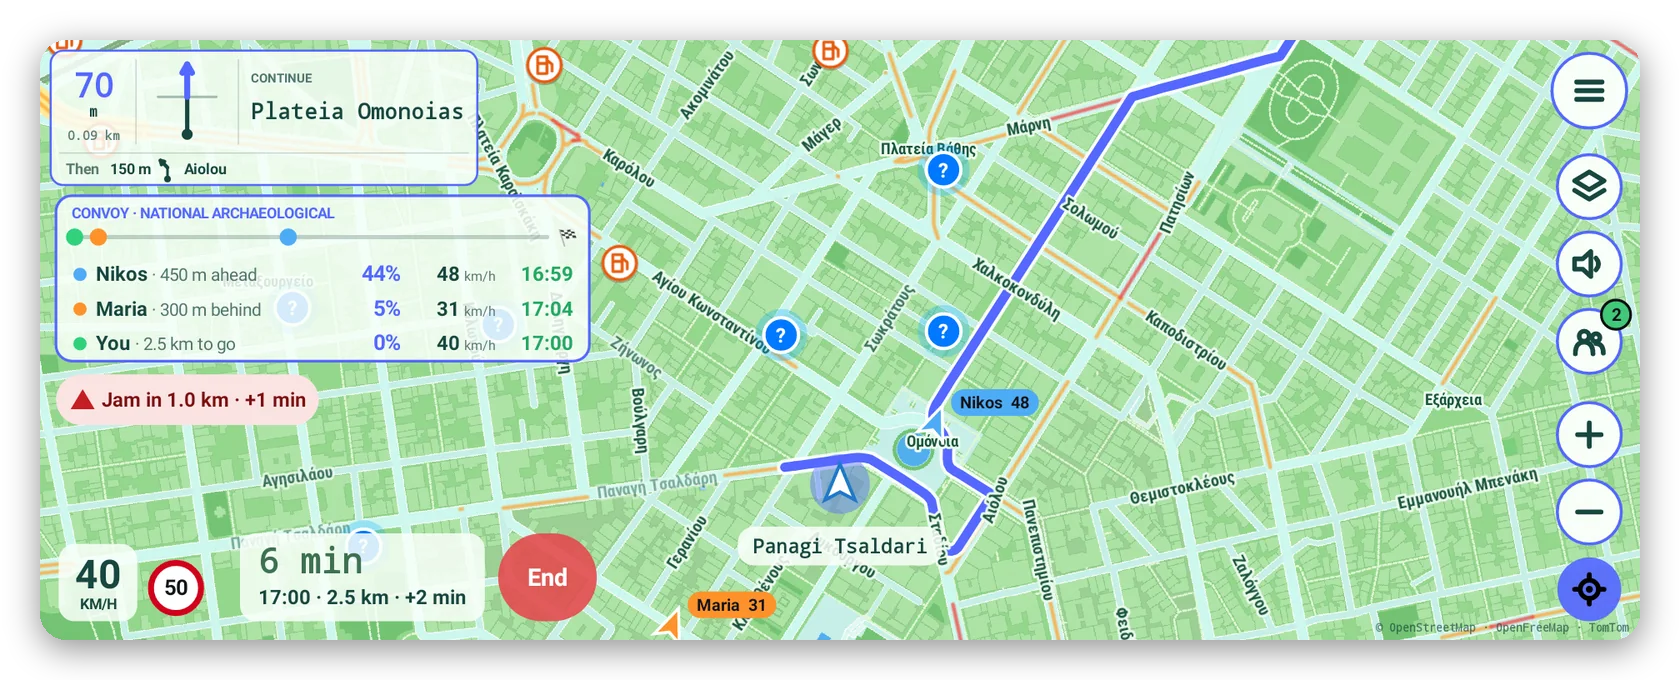
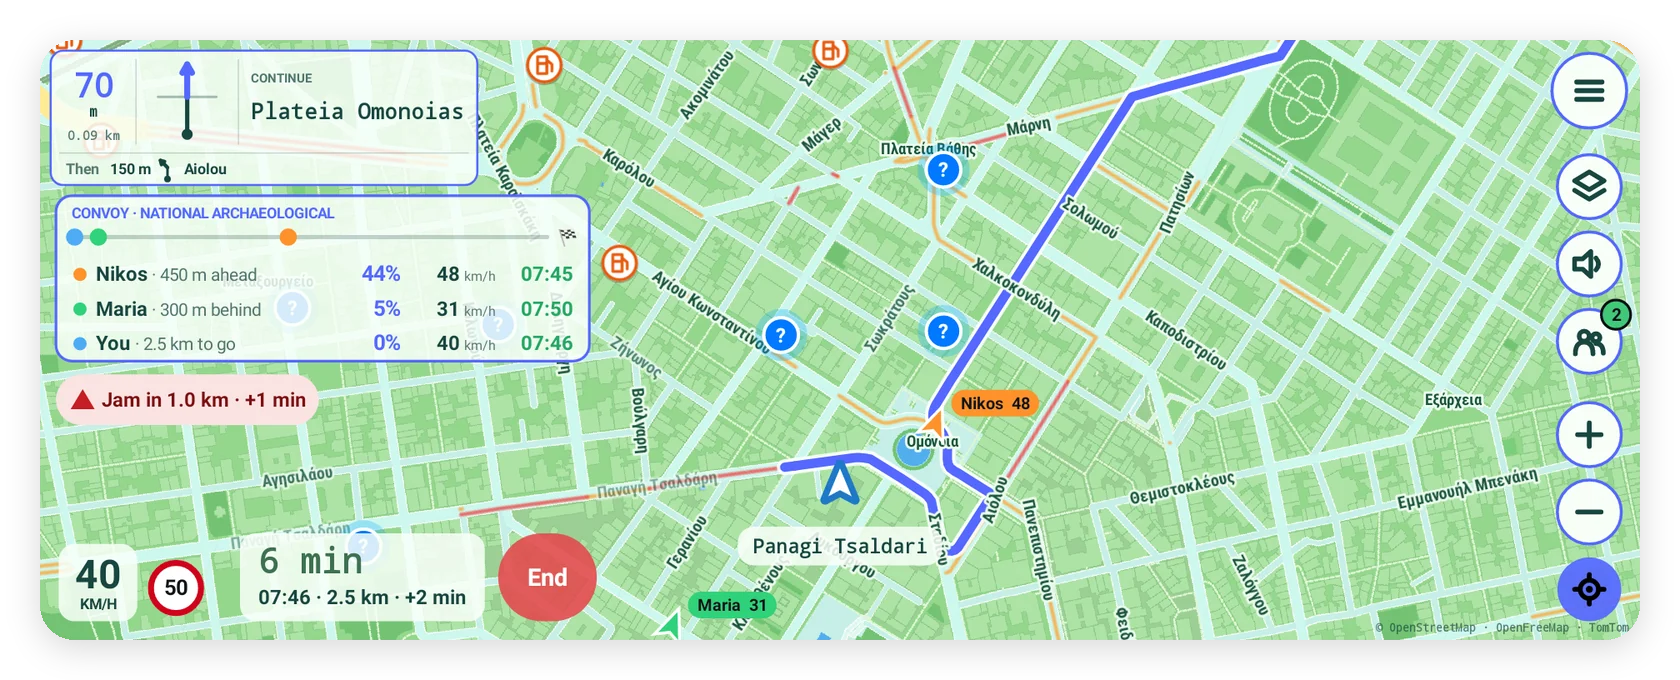
README: all pictures rendered again from 115 (see-through arrows, pharmacies, new flags); script to rebuild them
Claude-Session: https://claude.ai/code/session_01CciuioJVfRXxS6M8gZ8SfV

diff --git a/tools/readme_shots.py b/tools/readme_shots.py
@@ -1,0 +1,90 @@
+#!/usr/bin/env python3
+"""Builds the README pictures (docs/screenshots) from ReadmeShotsTest's rd_*.png shots:
+phone pairs in frames, the hero (three phones on a grid), the car screens.
+The style grids are tools/readme_themes.py.
+
+usage: python3 tools/readme_shots.py <folder with rd_*.png> <docs/screenshots>
+"""
+import os, sys
+from PIL import Image, ImageDraw, ImageFilter
+
+PAIRS = {
+    "find": ("search", "routes"),
+    "drive": ("drive", "quiet"),
+    "convoy": ("convoy", "lobby"),
+    "race": ("invitecard", "race"),
+    "friends": ("you", "friends"),
+    "xp": ("arrival", "progress"),
+    "garage": ("garage", "styles"),
+    "places": ("place", "fuel"),
+    "map": ("countries", "settings"),
+}
+CARS = ("drive", "convoy", "place")
+
+
+def phone(shot, w):
+    """The shot in a dark rounded phone body, w wide; returns RGBA."""
+    s = Image.open(shot).convert("RGB")
+    bez = max(8, w // 42)
+    sw = w - 2 * bez; sh = round(sw * s.height / s.width)
+    h = sh + 2 * bez
+    body = Image.new("RGBA", (w, h), (0, 0, 0, 0))
+    ImageDraw.Draw(body).rounded_rectangle((0, 0, w - 1, h - 1), w // 9, fill=(16, 16, 20, 255))
+    scr = s.resize((sw, sh), Image.LANCZOS)
+    m = Image.new("L", (sw, sh), 0)
+    ImageDraw.Draw(m).rounded_rectangle((0, 0, sw - 1, sh - 1), w // 11, fill=255)
+    body.paste(scr, (bez, bez), m)
+    return body
+
+
+def shadowed(canvas, item, x, y, blur=18, alpha=110, dy=10):
+    sh = Image.new("RGBA", canvas.size, (0, 0, 0, 0))
+    a = item.split()[3].point(lambda v: alpha if v else 0)
+    blk = Image.new("RGBA", item.size, (0, 0, 0, 255)); blk.putalpha(a)
+    sh.paste(blk, (x, y + dy), blk)
+    canvas.alpha_composite(sh.filter(ImageFilter.GaussianBlur(blur)))
+    canvas.alpha_composite(item, (x, y))
+
+
+def pair(src, out, name, a, b):
+    W, H = 1282, 1265
+    c = Image.new("RGBA", (W, H), (0, 0, 0, 0))
+    for k, s in enumerate((a, b)):
+        p = phone(os.path.join(src, f"rd_{s}.png"), 545)
+        shadowed(c, p, 58 + k * 622, (H - p.height) // 2 - 8)
+    c.save(os.path.join(out, f"{name}.webp"), quality=86, method=6)
+
+
+def hero(src, out):
+    W, H = 1600, 1260
+    c = Image.new("RGBA", (W, H))
+    d = ImageDraw.Draw(c)
+    for y in range(H):  # dark navy to purple
+        t = y / H
+        d.line((0, y, W, y), fill=(int(22 + 40 * t), int(20 + 14 * t), int(42 + 70 * t), 255))
+    grid = Image.new("RGBA", (W, H), (0, 0, 0, 0)); g = ImageDraw.Draw(grid)
+    for x in range(0, W, 80): g.line((x, 0, x, H), fill=(255, 255, 255, 18))
+    for y in range(0, H, 80): g.line((0, y, W, y), fill=(255, 255, 255, 18))
+    c.alpha_composite(grid)
+    left, mid, right = (phone(os.path.join(src, f"rd_{s}.png"), w) for s, w in (("lobby", 420), ("drive", 482), ("you", 420)))
+    shadowed(c, left, 120, 240, 30, 150, 16)
+    shadowed(c, right, W - 120 - 420, 240, 30, 150, 16)
+    shadowed(c, mid, (W - 482) // 2, 122, 34, 170, 18)
+    c.convert("RGB").save(os.path.join(out, "hero.jpg"), quality=88)
+
+
+def car(src, out, name):
+    W, H = 1680, 680
+    c = Image.new("RGBA", (W, H), (0, 0, 0, 0))
+    s = Image.open(os.path.join(src, f"rd_car_{name}.png")).convert("RGB").resize((1600, 600), Image.LANCZOS)
+    m = Image.new("L", s.size, 0); ImageDraw.Draw(m).rounded_rectangle((0, 0, 1599, 599), 34, fill=255)
+    item = Image.new("RGBA", s.size, (0, 0, 0, 0)); item.paste(s, (0, 0), m)
+    shadowed(c, item, 40, 40, 16, 100, 8)
+    c.save(os.path.join(out, f"car-{name}.webp"), quality=86, method=6)
+
+
+if __name__ == "__main__":
+    src, out = sys.argv[1], sys.argv[2]
+    for n, (a, b) in PAIRS.items(): pair(src, out, n, a, b)
+    hero(src, out)
+    for n in CARS: car(src, out, n)
